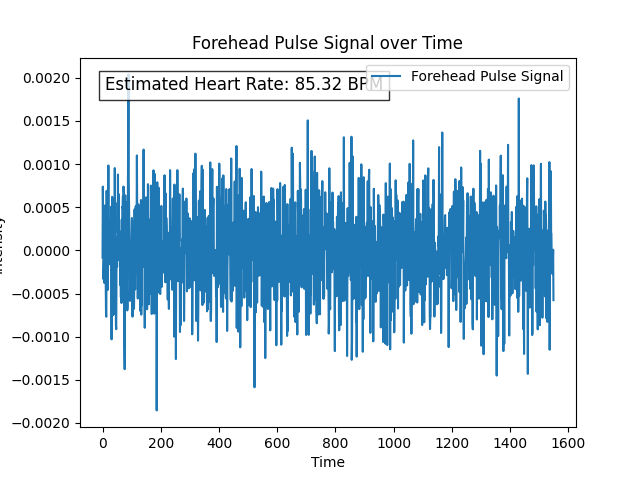
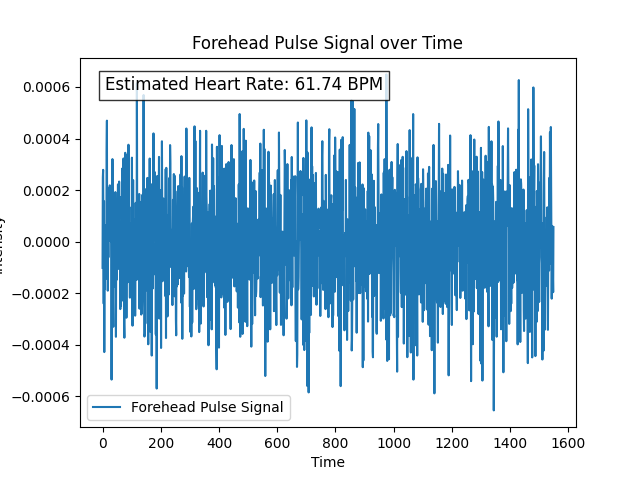
changes

diff --git a/heartrate_detection_v2.py b/heartrate_detection_v2.py
@@ -6,8 +6,8 @@ from scipy.fft import fft2, ifft2
 
 
 #window sizes for extracting heartrate
-# windowSizes=[10,20,30,40,50,60]
-windowSizes=[10]
+# windowSizes=[30,45,50,55,60,65]
+windowSizes=[45]
 #low and high cutoff frequencies
 lowcut = 0.75  # Low cut frequency for bandpass filter
 highcut = 2.5  # High cut frequency for bandpass filter
@@ -38,25 +38,11 @@ def normalize_video(video, window_size):
 
 
 def butter_bandpass(data, lowcut, highcut, fs, order=5):
-  """
-  Applies a Butterworth bandpass filter to a 2D array.
-
-  Args:
-      data: The 2D array representing the image.
-      lowcut: Lower cutoff frequency (normalized by half the sampling rate).
-      highcut: Upper cutoff frequency (normalized by half the sampling rate).
-      fs: Sampling rate (usually image width or height in pixels).
-      order: Filter order (higher for steeper roll-off but potentially more artifacts).
-
-  Returns:
-      The filtered image (2D array).
-  """
   nyquist = 0.5 * fs  # Nyquist frequency
   lowcut_norm = lowcut / nyquist
   highcut_norm = highcut / nyquist
   b, a = butter(order, [lowcut_norm, highcut_norm], btype='bandpass')
 
-  # Apply filter in frequency domain
   fft_data = fft2(data)
   filtered_fft = b[:, :, np.newaxis] * fft_data
   filtered_image = ifft2(filtered_fft).real
@@ -67,19 +53,6 @@ def butter_bandpass(data, lowcut, highcut, fs, order=5):
 
   
 def bandpass_filter(frames, lowcut, highcut, fs):
-  """
-  Applies a Butterworth bandpass filter to an array of images.
-
-  Args:
-      images: A 3D numpy array representing a stack of images.
-          (num_images, height, width)
-      lowcut: Lower cutoff frequency.
-      highcut: Upper cutoff frequency.
-      fs: Sampling rate (usually image width or height in pixels).
-
-  Returns:
-      A 3D numpy array containing the filtered images.
-  """
   filtered_images = np.empty_like(frames)
   for i, frame in enumerate(frames):
     filtered_images[i] = butter_bandpass(frame, lowcut, highcut, fs)

diff --git a/heart_rate_Testing.py b/heart_rate_Testing.py
@@ -25,7 +25,7 @@ def bandpass_filter(signal, low_cutoff, high_cutoff, sampling_rate):
     nyquist = 0.5 * sampling_rate
     low = float(low_cutoff) / float(nyquist)
     high = float(high_cutoff) / float(nyquist)
-    b, a = butter(6.0, [low, high], btype='band')
+    b, a = butter(5, [low, high], btype='band')
     filtered_signal = lfilter(b, a, signal)
     return filtered_signal
 
@@ -54,8 +54,8 @@ def calculate_pulse_signal(R, G, B,sampling_rate):
     Xs = 3*Rn - 2*Gn
     Ys = 1.5*Rn + Gn - 1.5*Bn
 
-    low_cutoff = 0.6
-    high_cutoff = 4
+    low_cutoff = 0.75
+    high_cutoff = 2.25
 
     S_refined = calculate_refined_pulse_signal(Rn, Gn, Bn,Xs, Ys, sampling_rate, low_cutoff, high_cutoff)
 
@@ -202,7 +202,7 @@ while True:
             print("right cheek: ",heart_rate)
 
         #forehead 
-        peaks3, _ = find_peaks(forehead_pulses,height=0.005,distance=sampling_rate/2)
+        peaks3, _ = find_peaks(forehead_pulses,height=0.005,distance=sampling_rate)
         heart_rate = calculate_heart_rate(peaks3, sampling_rate)
         if heart_rate is not np.nan:
             print("forehead: ",heart_rate)

diff --git a/heart_rate_detection_v1.py b/heart_rate_detection_v1.py
@@ -6,7 +6,7 @@ from scipy.fft import fft, fftfreq
 
 
 # Window sizes for extracting heart rate
-windowSizes = [30]
+windowSizes = [45]
 # Low and high cutoff frequencies
 lowcut = 0.75  # Low cut frequency for bandpass filter
 highcut = 2.5  # High cut frequency for bandpass filter
@@ -139,4 +139,4 @@ for windowSize in windowSizes:
     plt.legend()
     # Display the BPM on the plot
     plt.text(0.05, 0.95, f'Estimated Heart Rate: {bpm:.2f} BPM', horizontalalignment='left', verticalalignment='top', transform=plt.gca().transAxes, fontsize=12, bbox=dict(facecolor='white', alpha=0.8))
-    plt.savefig('pulse_signal.png')
+    plt.savefig('plots/pulse_signal.png')

diff --git a/heart_rate_detection_v1_test.py b/heart_rate_detection_v1_test.py
@@ -5,10 +5,10 @@ import matplotlib.pyplot as plt
 from scipy.fft import fft, fftfreq
 
 # Window sizes for extracting heart rate
-windowSizes = [30]
+windowSizes = [40]
 # Low and high cutoff frequencies
 lowcut = 0.75  # Low cut frequency for bandpass filter
-highcut = 4  # High cut frequency for bandpass filter
+highcut = 2.25  # High cut frequency for bandpass filter
 
 # Sampling rate
 fs = 2 * highcut
